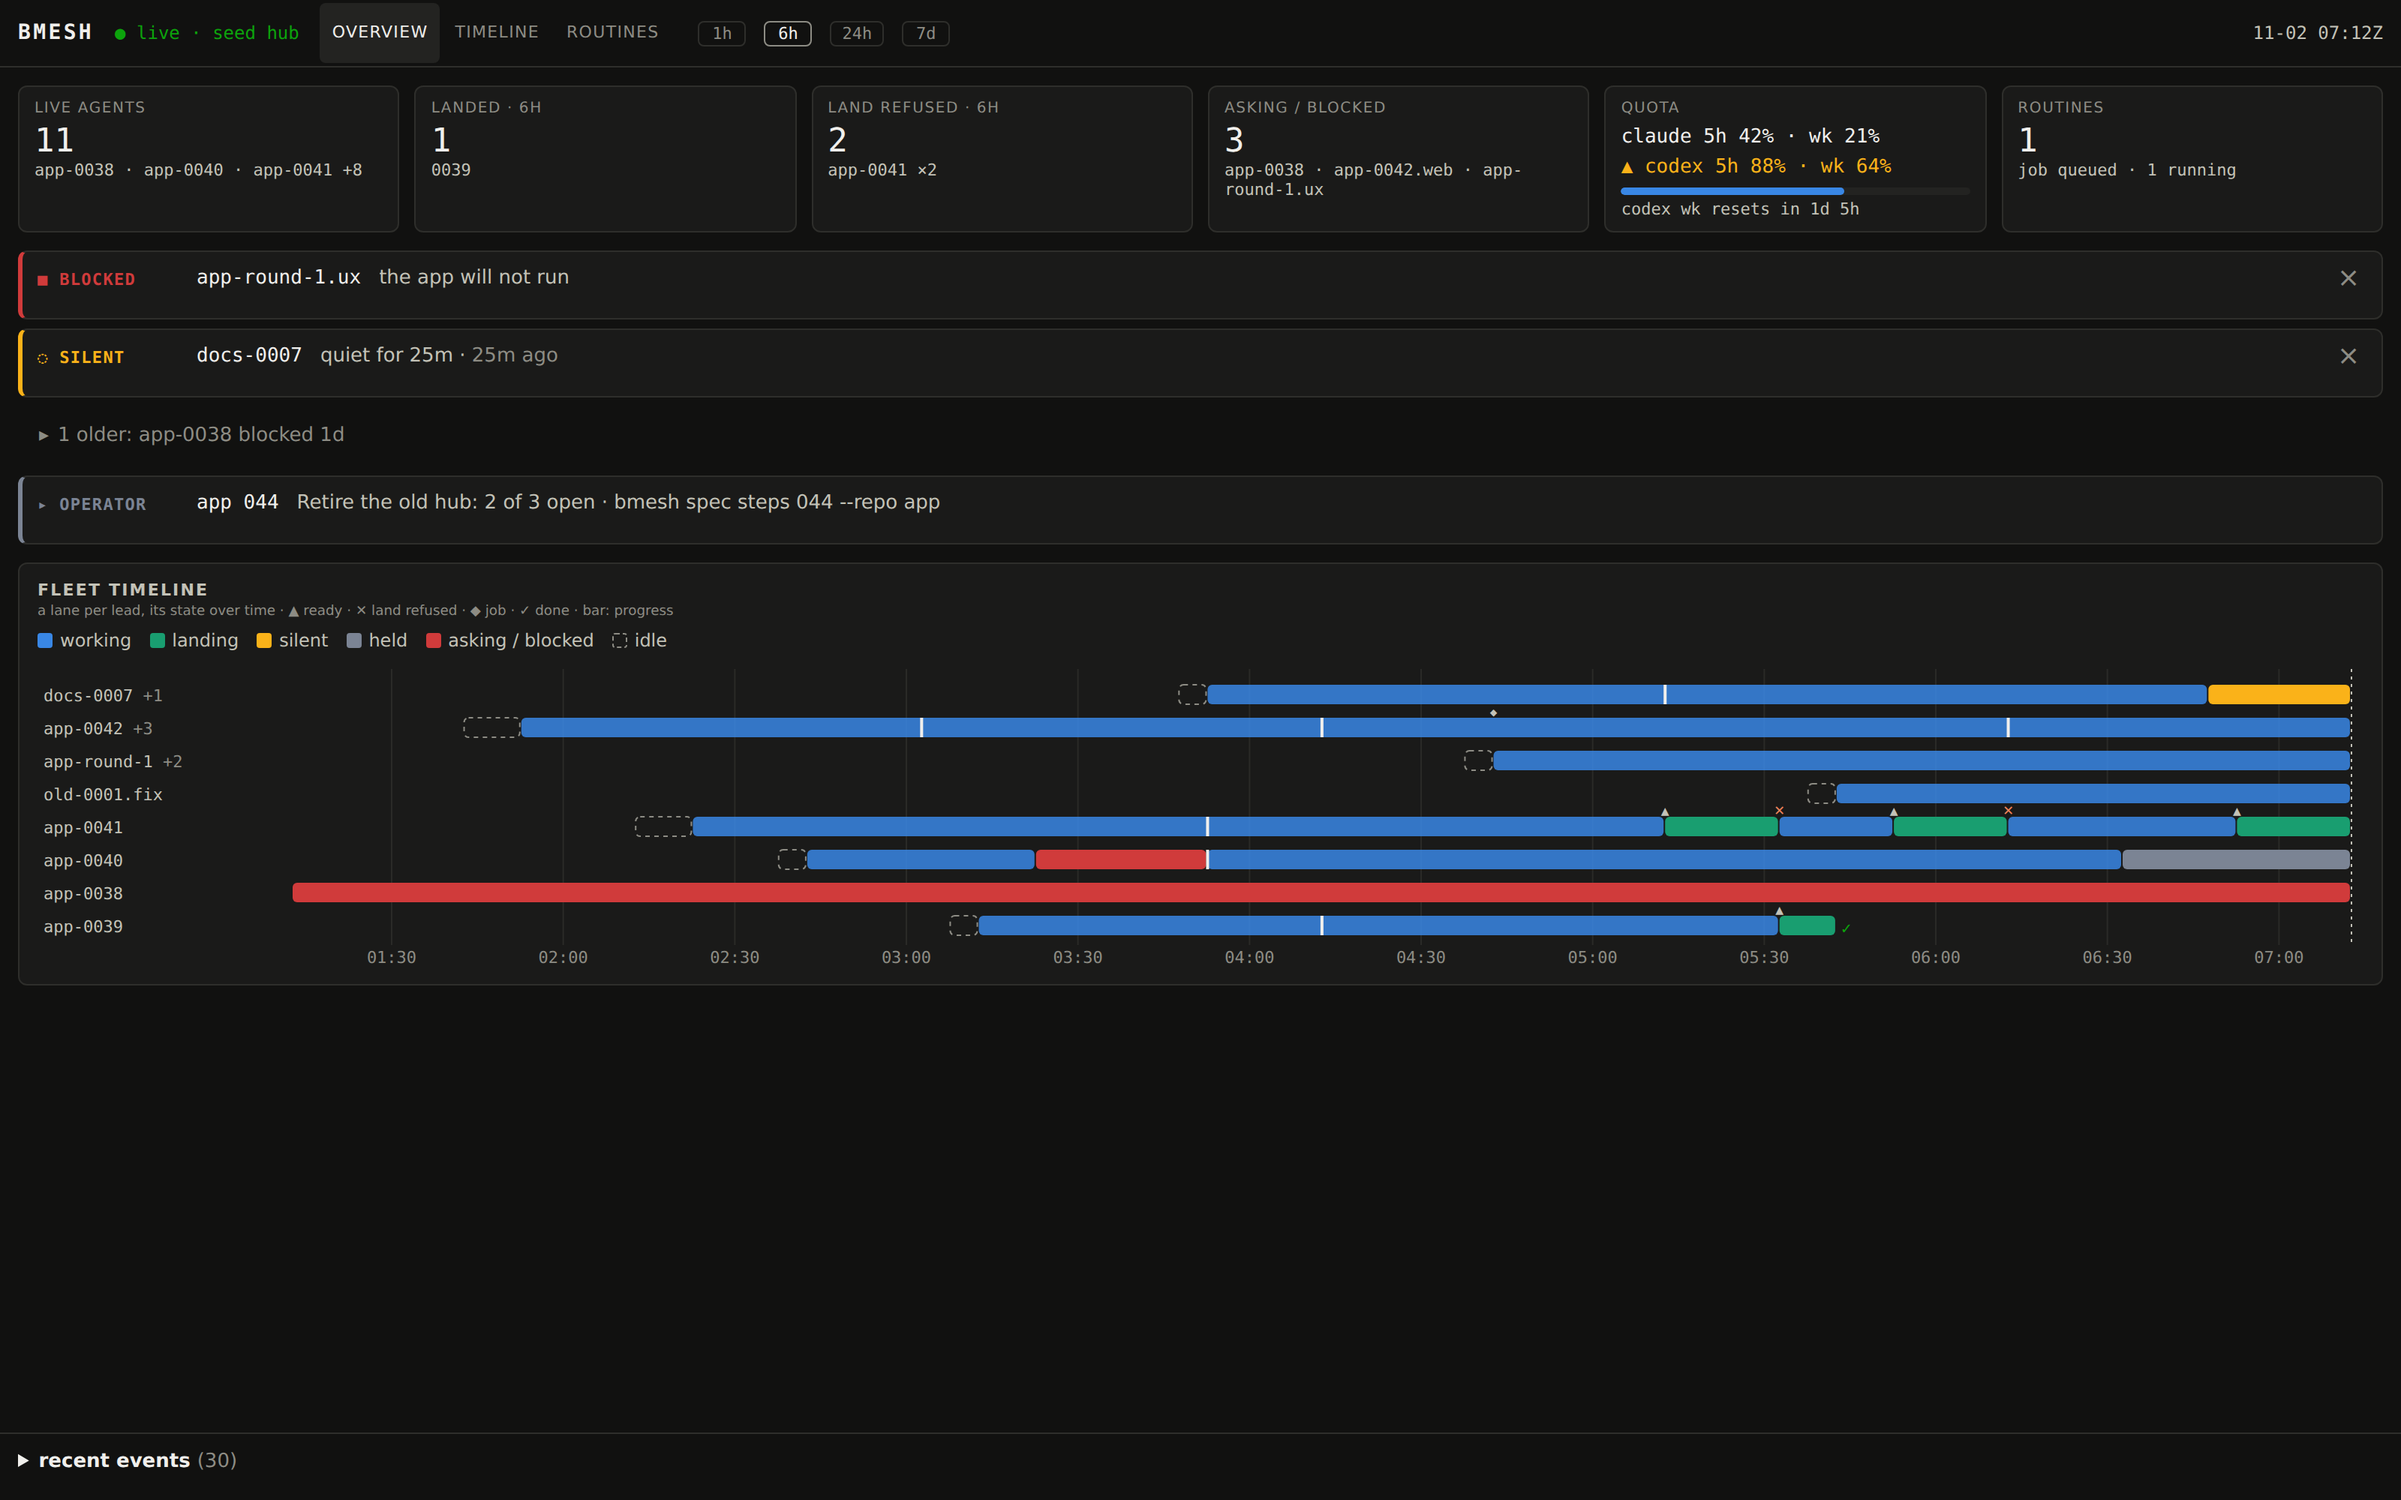
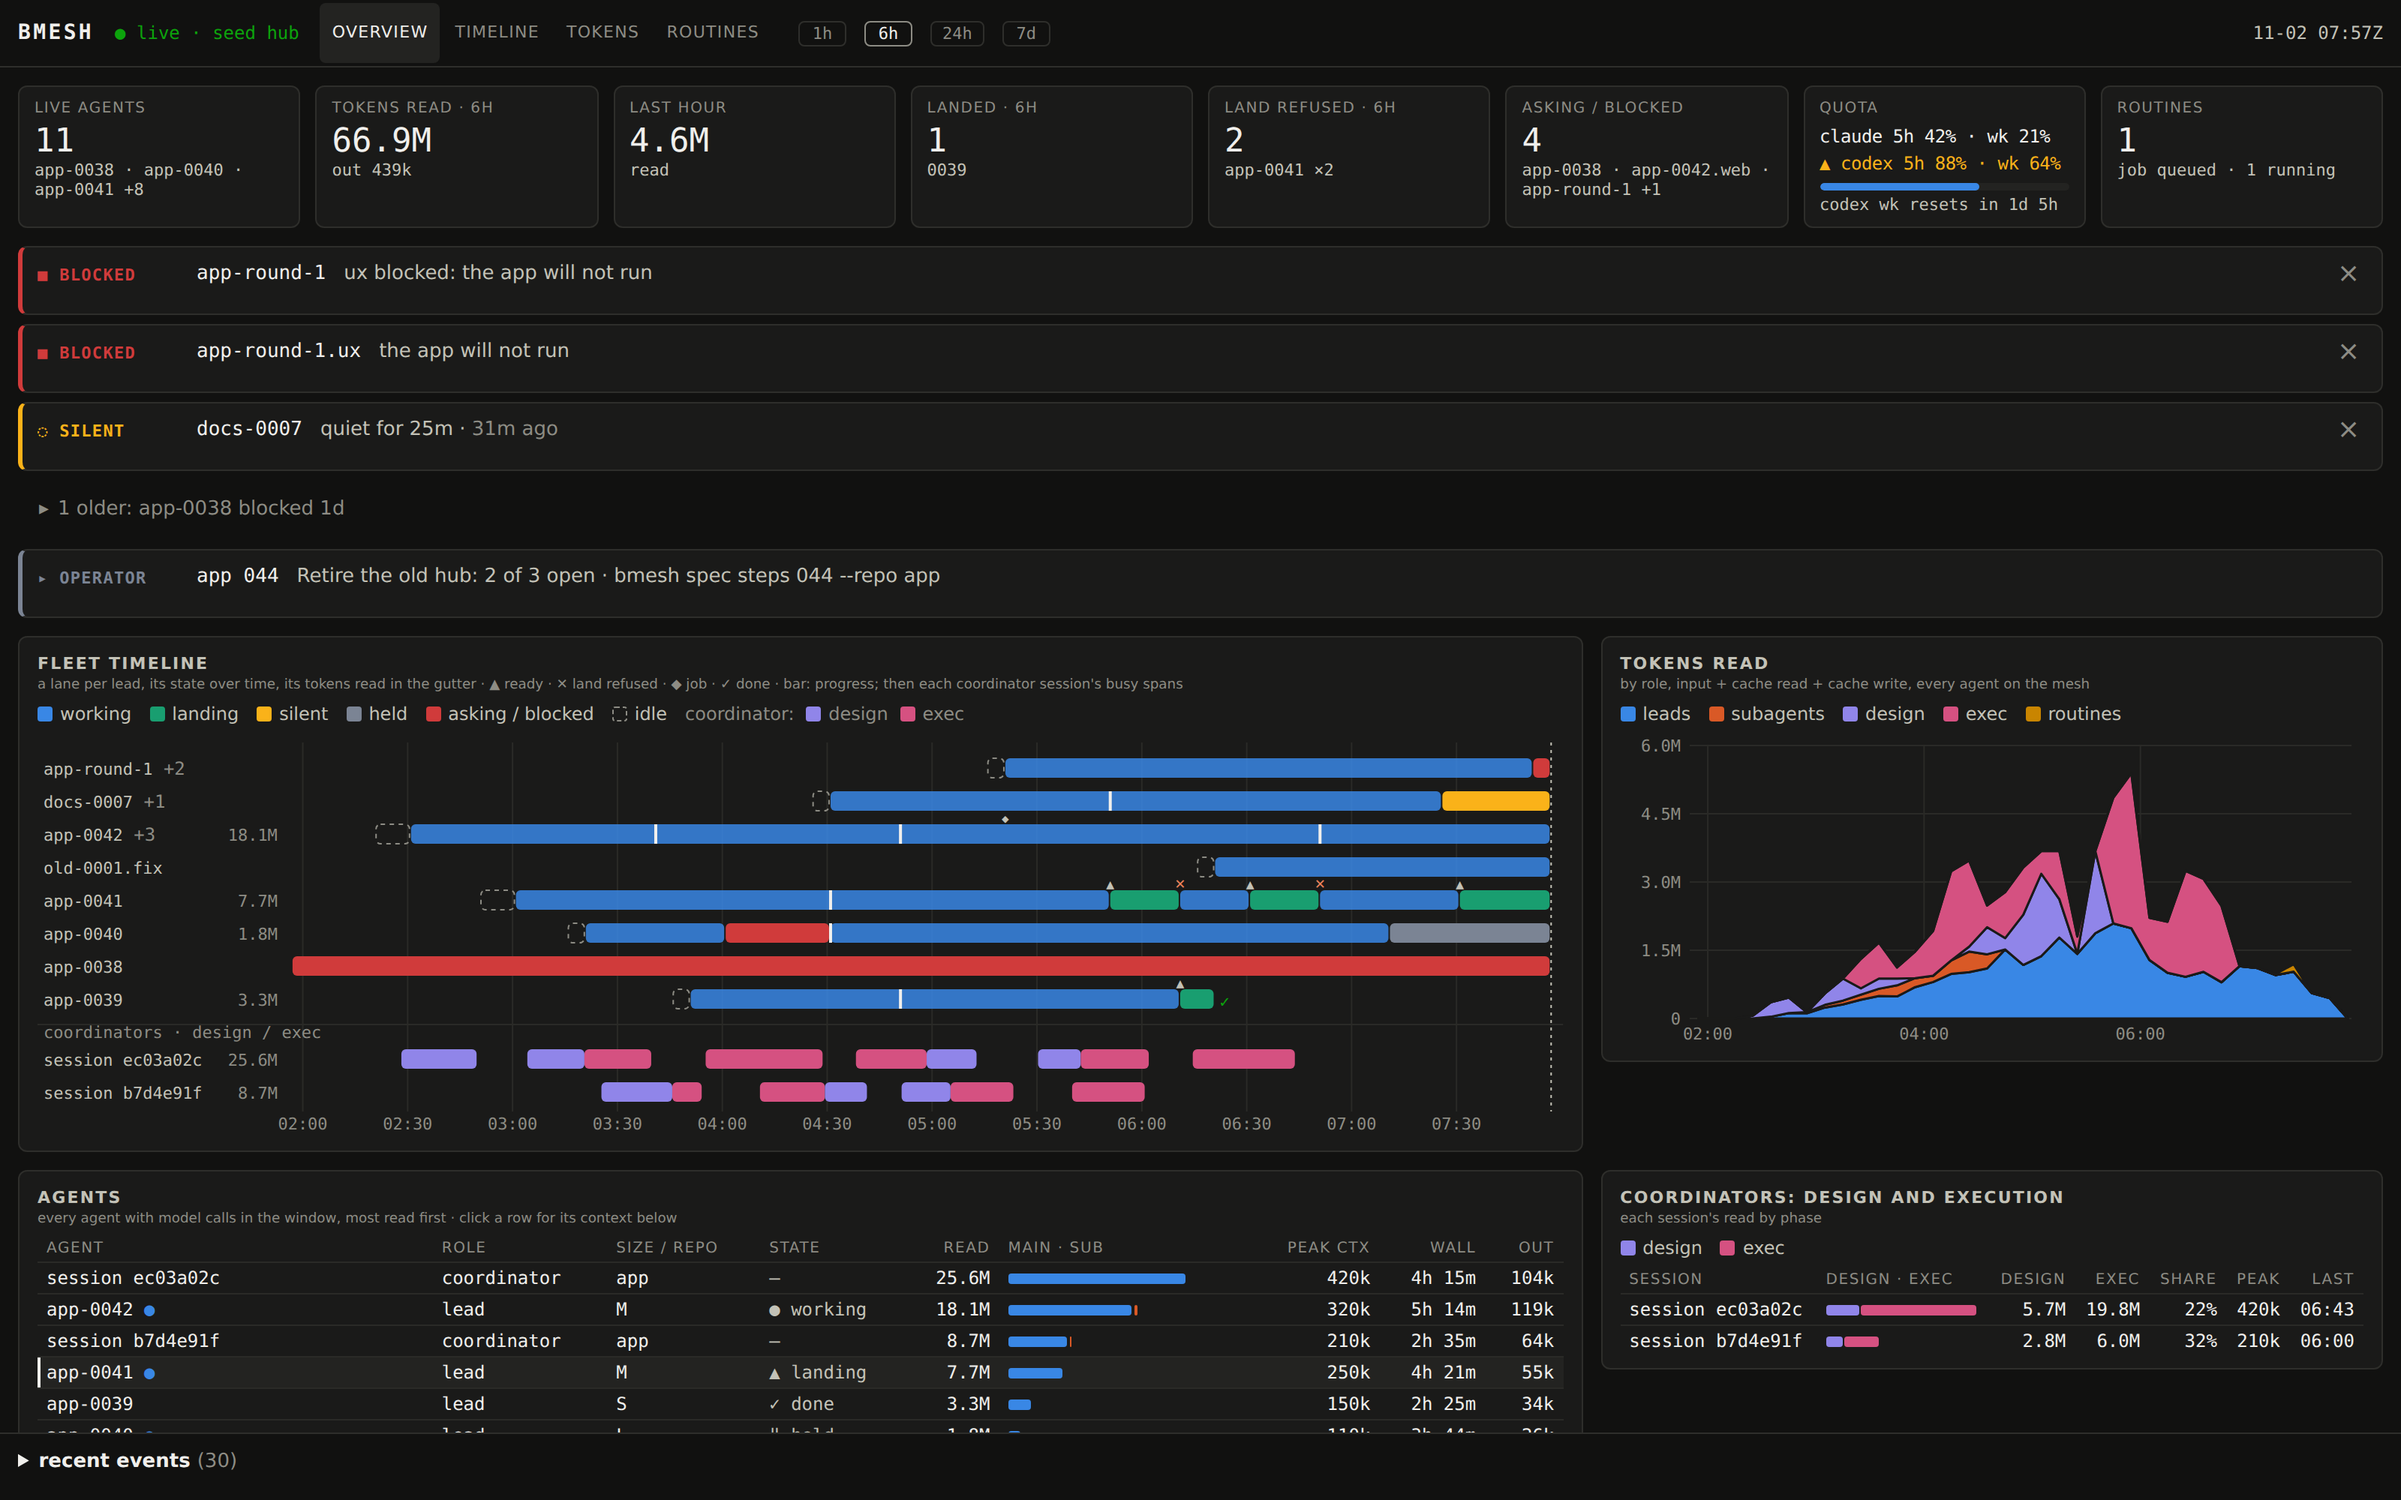
Spec 107: the console's token panels on the seed and on k16's transcripts; done
The overview gains Tokens read and Last hour tiles (eight), session lanes
by phase and each lane's read in the timeline's gutter, tokens read by
role, the agents table, coordinators' design and execution, context per
model call and quota; a tokens tab, a session page and the lead page's
tokens card and compare. A threshold label stays inside the chart, the two
largest growth labels never overlap, and a phone's gutter keeps the label.

Screenshots: the seed at 1600x1000, 1000x800 and 390x844 (check.mjs exit
0, roles=5 agents=8 ctx=60 quota=144 kpis=8), and k16's real transcripts
read into a scratch hub with k16's 203 nodes and bm-mesh history copied
in: buildermesh-096's lead page (38.9M, peak 345k, +19k Read cases.go
labelled, its five refusals as ticks) and session ec03a02c's page (416M,
design 176M / exec 240M, 42% design). No window ending today reaches
10-24, so those 30-day pages stand in for the 24h overview, and the
agents table's order on 10-24 is unchecked.

diff --git a/internal/web/map.js b/internal/web/map.js
@@ -433,7 +433,8 @@ function drawLanes(box, d, opts) {
   const from = opts.life ? Math.min(d.from, to - 600) : now - (WINDOWS[tl.win] || d.to - d.from);
   const rows = rowsOf(d.lanes || [], opts.fold);
   const u = opts.sessions ? usageNow() : null;
-  const reads = new Map(u ? u.agents.map((a) => [a.agent, +a.read || 0]) : []);
+  // A phone's gutter has room for the label only: the agents table has the reads.
+  const reads = new Map(u && !phone.matches ? u.agents.map((a) => [a.agent, +a.read || 0]) : []);
   if (u && u.sessions.length) {
     // The coordinator sessions, a group under the leads (before the routines).
     const gi = rows.findIndex((r) => r.group === "routines");
@@ -1520,11 +1521,12 @@ function kindsRead(k) {
   return k ? (+k.in || 0) + (+k.cr || 0) + (+k.cw || 0) : 0;
 }
 
-// niceMax rounds v up to 1, 2, 2.5 or 5 times a power of ten.
+// niceMax rounds v up to a round multiple of a power of ten, whose
+// quarters are round too.
 function niceMax(v) {
   if (!(v > 0)) return 1;
   const p = Math.pow(10, Math.floor(Math.log10(v)));
-  for (const m of [1, 2, 2.5, 5, 10]) if (v <= m * p) return m * p;
+  for (const m of [1, 1.2, 1.6, 2, 2.4, 3, 4, 5, 6, 8, 10]) if (v <= m * p) return m * p;
   return 10 * p;
 }
 
@@ -1889,7 +1891,8 @@ function ctxChart(box, d, opts) {
     from = cs.length ? cs[0].at : 0;
     to = Math.max(from + 600, cs.length ? cs[cs.length - 1].at : 0);
   }
-  const W = Math.max(box.clientWidth, 240), P = { l: 46, r: 8, t: 8, b: 20 };
+  // The bottom padding holds the ✕ and ▲ row above the time labels.
+  const W = Math.max(box.clientWidth, 240), P = { l: 46, r: 8, t: 8, b: 34 };
   const H1 = 170, GAP = 18, H2 = 80, H = P.t + H1 + GAP + H2 + P.b;
   const x = (t) => P.l + (Math.max(from, Math.min(to, t)) - from) / Math.max(1, to - from) * (W - P.l - P.r);
   const ctxs = d.context || {};
@@ -1916,7 +1919,7 @@ function ctxChart(box, d, opts) {
   for (const [v, words] of lines) {
     if (v > yMax) continue;
     svg("line", { class: "ref", x1: P.l, x2: W - P.r, y1: y(v), y2: y(v) }, root);
-    svgText({ class: "axis", x: W - P.r - 2, y: y(v) - 3, "text-anchor": "end" }, words + " " + fmtTok(v), root);
+    svgText({ class: "axis", x: W - P.r - 2, y: y(v) - 3 < P.t + 9 ? y(v) + 11 : y(v) - 3, "text-anchor": "end" }, words + " " + fmtTok(v), root);
   }
   let points = 0;
   for (const s of [...ser].reverse()) {
@@ -1945,16 +1948,20 @@ function ctxChart(box, d, opts) {
     const X = x(tOf(s0, c.at));
     svg("rect", { class: "grow " + s0.cls, x: X - 1, y: gy(c.grow), width: 2, height: Math.max(1, base - gy(c.grow)) }, root);
   }
+  // The two largest, labelled; the second a line lower when they'd meet.
   const largest = grows.slice().sort((a, b) => b.grow - a.grow).slice(0, 2);
-  for (const c of largest) {
+  const labelX = [];
+  largest.forEach((c, i) => {
     const X = x(tOf(s0, c.at)), right = X > W - 200;
-    svgText({ class: "glabel", x: right ? X - 4 : X + 4, y: Math.max(gy(c.grow) + 9, P.t + H1 + GAP), "text-anchor": right ? "end" : "start" },
+    const near = i > 0 && Math.abs(X - labelX[0]) < 220;
+    labelX.push(X);
+    svgText({ class: "glabel", x: right ? X - 4 : X + 4, y: P.t + H1 + GAP + 2 + (near ? 13 : 0), "text-anchor": right ? "end" : "start" },
       "+" + fmtTok(c.grow) + (c.cause ? " " + fit(c.cause, 28) : ""), root);
-  }
+  });
   for (const e of s0.events) {
     const glyph = e.kind === "refused" ? "✕" : e.kind === "ready" ? "▲" : "";
     if (!glyph || tOf(s0, e.at) < from || tOf(s0, e.at) > to) continue;
-    const m = svgText({ class: "tick " + e.kind, x: x(tOf(s0, e.at)), y: base + 11, "text-anchor": "middle" }, glyph, root);
+    const m = svgText({ class: "tick " + e.kind, x: x(tOf(s0, e.at)), y: base + 12, "text-anchor": "middle" }, glyph, root);
     hover(m, () => md(e.at) + " " + hm(e.at) + "  " + (e.kind === "refused" ? "land refused" : e.kind) + (e.text ? "\n" + e.text : ""));
   }
   // The tip: the call nearest the pointer, of each agent.
@@ -1976,7 +1983,7 @@ function ctxChart(box, d, opts) {
   const items = mins ? ser.map((s) => [s.cls, agentName(s.a.agent) + " · " + fmtTok(s.a.read) + (s.a.size ? " · " + s.a.size : "")]) : [];
   box.replaceChildren(...(items.length ? [legendOf(items)] : []), root,
     el("div", "note", "Lower: what each call added to " + agentName(d.agent.agent) + "'s context, named by the tool use before it" +
-      (s0.events.length ? " · ✕ land refused · ▲ ready" : "") + "."));
+      (s0.events.some((e) => e.kind === "refused" || e.kind === "ready") ? " · ✕ land refused · ▲ ready" : "") + "."));
   return points;
 }
 

diff --git a/internal/web/map.css b/internal/web/map.css
@@ -135,7 +135,7 @@ header nav a.on { color: var(--tp); background: var(--s2); }
 a.tile:hover { text-decoration: none; border-color: var(--tm); }
 .tile .k { font-size: 10px; letter-spacing: .08em; text-transform: uppercase; color: var(--tm); }
 .tile .v { margin-top: 2px; font: 22px var(--mono); font-variant-numeric: tabular-nums; }
-.tile .v.small { font-size: 13px; line-height: 1.5; }
+.tile .v.small { font-size: 12px; line-height: 1.5; letter-spacing: -.02em; }
 .tile .v .high { color: var(--warn); }
 .tile .s { font: 11px var(--mono); color: var(--ts); overflow-wrap: anywhere; }
 .tile .s .clock.read { color: var(--warn); }
@@ -583,7 +583,7 @@ a.tile:hover { text-decoration: none; border-color: var(--tm); }
 .sw { display: inline-block; width: 9px; height: 9px; margin-right: 5px; border-radius: 2px; }
 .more { display: inline-flex; align-items: center; min-height: 40px; font-size: 12px; }
 .compare { display: inline-flex; align-items: center; gap: 8px; margin: 2px 0 4px; font-size: 12px; color: var(--tm); }
-.compare select { min-height: 40px; max-width: 100%; background: var(--s2); color: var(--tp); border: 1px solid var(--line); border-radius: 4px; font: 12px var(--mono); }
+.compare select { min-height: 40px; min-width: 160px; max-width: 100%; background: var(--s2); color: var(--tp); border: 1px solid var(--line); border-radius: 4px; font: 12px var(--mono); }
 @media (max-width: 699px) {
   .hide-n { display: none; }
   .ms { width: 70px; }

diff --git a/internal/web/index.html b/internal/web/index.html
@@ -90,7 +90,7 @@
     </section>
     <section class="tpanel">
       <h2>Context per model call<small>the main thread's context after each call, over its life</small></h2>
-      <label class="compare">compare <select id="lead-vs" class="tap"></select></label>
+      <label class="compare">compare <select id="lead-vs" class="tap"><option value="">loading…</option></select></label>
       <div id="lead-ctx" class="chart"></div>
     </section>
     <div id="lead-panel" class="panel"></div>

diff --git a/docs/manual.md b/docs/manual.md
@@ -4089,7 +4089,7 @@ The recent-events drawer is at the foot of every tab.
 - A label is the node's path. When every lane is of one repo with a name of five letters or more, that name is shortened to two letters (`buildermesh-096` is `bm-096`).
 - An executor or engineer folds into its parent's lane, counted after the label (`bm-096 +2`).
 - Live events extend the lanes at once (redrawn at most once a second), and a dashed line marks now, moving every 30 seconds.
-- Each lane's tokens read in the window are in its gutter, after the label.
+- Each lane's tokens read in the window are in its gutter, after the label (not on a phone, under 700px, where the label takes the gutter).
 - Under the leads, a `coordinators` group draws one lane per coordinator session (a Claude Code session no node owns, `bmesh usage`'s `session.<host>.<id>`) with model calls in the window, labelled `session <first 8 of its id>`, its repo on hover and its read in the gutter. Its bars are its busy spans: runs of model calls less than 5 minutes apart, `design` in violet and `exec` in magenta (its phase, as `bmesh usage` splits it). No state is drawn in either colour. Click a session's lane for its page.
 
 **Tokens read by role** stacks what the window's model calls read, per bucket (a minute on `1h`, 10 minutes on `6h`, 30 on `24h`, 3 hours on `7d`), in five series in this order: `leads` (leads, fixers, rounds and engineers, their own calls), `subagents` (executors and the Agent subagents of nodes), coordinator `design` and `exec` (a coordinator session's calls and its subagents', by phase) and `routines`. Hover for each series and the total of a bucket.

diff --git a/README.md b/README.md
@@ -221,7 +221,7 @@ One always-on box runs the hub; the other boxes reach it over a tailnet such as 
   <picture>
     <source media="(prefers-color-scheme: dark)" srcset="docs/assets/map-dark.png">
     <source media="(prefers-color-scheme: light)" srcset="docs/assets/map-light.png">
-    <img alt="The bmesh console: the KPI tiles, the needs-you band and the fleet timeline of every lead's states" src="docs/assets/map-light.png" width="100%">
+    <img alt="The bmesh console: the KPI tiles, the needs-you band, the fleet timeline of every lead's states and coordinator sessions beside tokens read by role, the agents table, coordinators' design and execution, context per model call and quota" src="docs/assets/map-light.png" width="100%">
   </picture>
 </p>
 

diff --git a/docs/proposals/107-tokens-and-context-on-the-console.md b/docs/proposals/107-tokens-and-context-on-the-console.md
@@ -4,7 +4,7 @@ title: The console shows tokens by role over time, every agent's totals, a coord
 kind: feature
 size: M
 judge: opus
-status: accepted
+status: done
 lens: ux
 proposed_by: operator
 proposed_on: 2026-10-24
